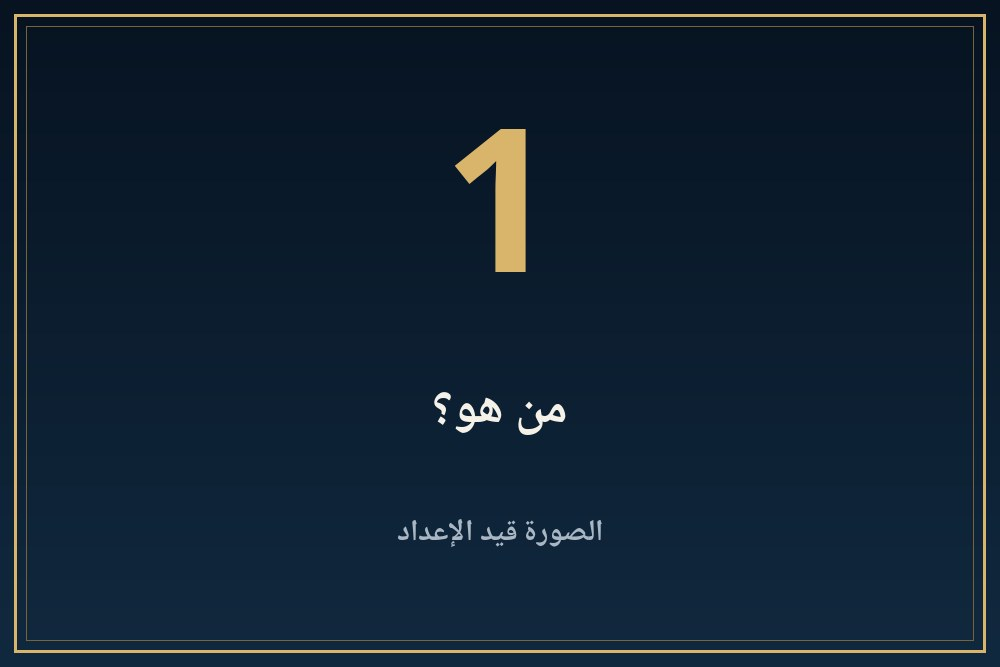
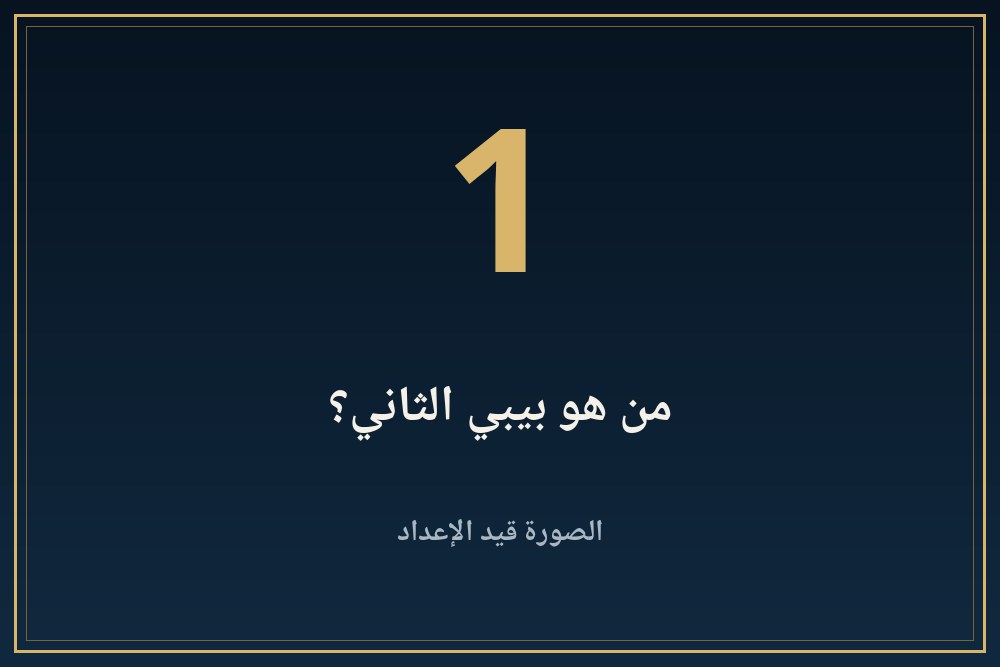
King 035: rebuilt from updated content (placeholders, audio pending)

Changed region(s): [[0.341, 0.5697, 0.682, 0.6597], [0.31, 0.5697, 0.341, 0.6297]]

diff --git a/kings/035-byby-althany/index.html b/kings/035-byby-althany/index.html
@@ -324,7 +324,7 @@ html[dir=ltr] #panav.open,#pash[dir=ltr] #panav.open{border-right:0!important;bo
 <div class="row"><span class="bdg v">موثّق</span><span>مذكور في مصدر مرقّم يمكن فتحه من قسم المراجع.</span></div>
 <div class="row"><span class="bdg d">محل خلاف</span><span>الصفحة نفسها تذكر أن الباحثين أو المصادر مختلفون فيه.</span></div>
 <div class="row"><span class="bdg u">لم يُتحقق منه</span><span>الصفحة تذكر أنه من مصدر واحد ولم يُتحقق منه في مصدر ثانٍ.</span></div></div>
-<div class="band" aria-hidden="true"></div><details class="acc k1" id="s1"><summary><img class="bnr" src="banners/b01.jpg?v=1" alt="" width="1000" height="667"><span class="n">1</span><span class="t">من هو؟</span><span class="ch"></span></summary><div class="body"><button class="lbtn" type="button" disabled aria-disabled="true" style="opacity:.55;cursor:default"><svg viewBox="0 0 24 24" fill="currentColor" aria-hidden="true"><path d="M7 4.5v15a1 1 0 001.5.86l12-7.5a1 1 0 000-1.72l-12-7.5A1 1 0 007 4.5z"/></svg><span>التعليق الصوتي قريبًا</span></button><p><span class="bdg v">موثّق</span> يقول سليم حسن (ج1 ص287) إنه خلف أخاه مرن رع وهو في السادسة، وإن مانيتون يقول إنه حكم حتى بلغ المئة، أي نحو 94 عاما، وإن أراتوستينس يقول «مئة عام إلا ساعة واحدة».<sup><a href="#r1">[1]</a></sup></p></div></details><details class="acc k2" id="s2"><summary><img class="bnr" src="banners/b02.jpg?v=1" alt="" loading="lazy" width="1000" height="667"><span class="n">2</span><span class="t">مدة الحكم: من قال ماذا؟</span><span class="ch"></span></summary><div class="body"><button class="lbtn" type="button" disabled aria-disabled="true" style="opacity:.55;cursor:default"><svg viewBox="0 0 24 24" fill="currentColor" aria-hidden="true"><path d="M7 4.5v15a1 1 0 001.5.86l12-7.5a1 1 0 000-1.72l-12-7.5A1 1 0 007 4.5z"/></svg><span>التعليق الصوتي قريبًا</span></button><p><span class="bdg d">محل خلاف</span> مانيتون كما ينقله سليم حسن (ص287): نحو 94 عاما. وأراتوستينس: مئة عام إلا ساعة. ولم نقرأ بعد الرقم عند مصدر مصري حديث. فلا نحسم.<sup><a href="#r1">[1]</a></sup></p></div></details><details class="acc k3" id="s3"><summary><img class="bnr" src="banners/b03.jpg?v=1" alt="" loading="lazy" width="1000" height="667"><span class="n">3</span><span class="t">البلاط في صغره</span><span class="ch"></span></summary><div class="body"><button class="lbtn" type="button" disabled aria-disabled="true" style="opacity:.55;cursor:default"><svg viewBox="0 0 24 24" fill="currentColor" aria-hidden="true"><path d="M7 4.5v15a1 1 0 001.5.86l12-7.5a1 1 0 000-1.72l-12-7.5A1 1 0 007 4.5z"/></svg><span>التعليق الصوتي قريبًا</span></button><p><span class="bdg v">موثّق</span> يقول سليم حسن (ص287) إنه لم يحدث اضطراب في البلاط بفضل خاله ووزيره زاو وأمه.<sup><a href="#r1">[1]</a></sup></p></div></details><details class="acc k4" id="s4"><summary><img class="bnr" src="banners/b04.jpg?v=1" alt="" loading="lazy" width="1000" height="667"><span class="n">4</span><span class="t">خطاب القزم</span><span class="ch"></span></summary><div class="body"><button class="lbtn" type="button" disabled aria-disabled="true" style="opacity:.55;cursor:default"><svg viewBox="0 0 24 24" fill="currentColor" aria-hidden="true"><path d="M7 4.5v15a1 1 0 001.5.86l12-7.5a1 1 0 000-1.72l-12-7.5A1 1 0 007 4.5z"/></svg><span>التعليق الصوتي قريبًا</span></button><p><span class="bdg v">موثّق</span> يترجم سليم حسن (ص288-289) خطاب الملك إلى حرخوف: «فتش عليه عشر مرات كل ليلة؛ لأن جلالتي يريد أن يرى هذا القزم أكثر من كل محصولات بلاد بنت وكنوزها»، ويقول إنه «أقدم وثيقة في التاريخ عن كشف مجاهل أفريقيا» (ص288). وهذا حكمه هو.<sup><a href="#r1">[1]</a></sup></p></div></details><details class="acc k1" id="s5"><summary><img class="bnr" src="banners/b05.jpg?v=1" alt="" loading="lazy" width="1000" height="667"><span class="n">5</span><span class="t">بيبي نخت</span><span class="ch"></span></summary><div class="body"><button class="lbtn" type="button" disabled aria-disabled="true" style="opacity:.55;cursor:default"><svg viewBox="0 0 24 24" fill="currentColor" aria-hidden="true"><path d="M7 4.5v15a1 1 0 001.5.86l12-7.5a1 1 0 000-1.72l-12-7.5A1 1 0 007 4.5z"/></svg><span>التعليق الصوتي قريبًا</span></button><p><span class="bdg v">موثّق</span> يذكر سليم حسن (ص290) بيبي نخت ورحلاته إلى إرثت وبنت، ومن عباراته «أعطيت خبزا للجائع».<sup><a href="#r1">[1]</a></sup></p></div></details><details class="acc k2" id="s6"><summary><img class="bnr" src="banners/b06.jpg?v=1" alt="" loading="lazy" width="1000" height="667"><span class="n">6</span><span class="t">مقتل عنختي</span><span class="ch"></span></summary><div class="body"><button class="lbtn" type="button" disabled aria-disabled="true" style="opacity:.55;cursor:default"><svg viewBox="0 0 24 24" fill="currentColor" aria-hidden="true"><path d="M7 4.5v15a1 1 0 001.5.86l12-7.5a1 1 0 000-1.72l-12-7.5A1 1 0 007 4.5z"/></svg><span>التعليق الصوتي قريبًا</span></button><p><span class="bdg v">موثّق</span> يذكر سليم حسن (ص291) أن عنختي، مدير قافلة بنت، قُتل على يد الآسيويين وهو يبني سفينة.<sup><a href="#r1">[1]</a></sup></p></div></details><details class="acc k3" id="s7"><summary><img class="bnr" src="banners/b07.jpg?v=1" alt="" loading="lazy" width="1000" height="667"><span class="n">7</span><span class="t">سبني وأبوه مخو</span><span class="ch"></span></summary><div class="body"><button class="lbtn" type="button" disabled aria-disabled="true" style="opacity:.55;cursor:default"><svg viewBox="0 0 24 24" fill="currentColor" aria-hidden="true"><path d="M7 4.5v15a1 1 0 001.5.86l12-7.5a1 1 0 000-1.72l-12-7.5A1 1 0 007 4.5z"/></svg><span>التعليق الصوتي قريبًا</span></button><p><span class="bdg v">موثّق</span> يذكر سليم حسن (ص292) أن سبني استعاد جثة أبيه مخو، ومرسوم التحنيط الملكي.<sup><a href="#r1">[1]</a></sup></p></div></details><details class="acc k4" id="s8"><summary><img class="bnr" src="banners/b08.jpg?v=1" alt="" loading="lazy" width="1000" height="667"><span class="n">8</span><span class="t">الوزير زاو وقبر أبي</span><span class="ch"></span></summary><div class="body"><button class="lbtn" type="button" disabled aria-disabled="true" style="opacity:.55;cursor:default"><svg viewBox="0 0 24 24" fill="currentColor" aria-hidden="true"><path d="M7 4.5v15a1 1 0 001.5.86l12-7.5a1 1 0 000-1.72l-12-7.5A1 1 0 007 4.5z"/></svg><span>التعليق الصوتي قريبًا</span></button><p><span class="bdg v">موثّق</span> يذكر سليم حسن (ص293-294) أسرة الوزير زاو وقبر أبي الذي أوصى بأن يُدفن مع أبيه حبا لا عجزا.<sup><a href="#r1">[1]</a></sup></p></div></details><details class="acc k1" id="s9"><summary><img class="bnr" src="banners/b09.jpg?v=1" alt="" loading="lazy" width="1000" height="667"><span class="n">9</span><span class="t">نهاية الدولة القديمة: من قال ماذا؟</span><span class="ch"></span></summary><div class="body"><button class="lbtn" type="button" disabled aria-disabled="true" style="opacity:.55;cursor:default"><svg viewBox="0 0 24 24" fill="currentColor" aria-hidden="true"><path d="M7 4.5v15a1 1 0 001.5.86l12-7.5a1 1 0 000-1.72l-12-7.5A1 1 0 007 4.5z"/></svg><span>التعليق الصوتي قريبًا</span></button><p><span class="bdg d">محل خلاف</span> يقول سليم حسن (ص295 و297-301) إن السلطة تدهورت في عهد بيبي الثاني، وإن البدو أغاروا وقامت حروب داخلية، وإن الثورة الاجتماعية «امتد أمدها أكثر من قرنين». ويعتمد على كتاب «تحذيرات نبي» (إب ور) مصدرا أدبيا يترجم منه مقاطع (ص298-301)، منها «صارت الأرض تدور كعجلة صانع الفخار». ولم نقرأ بعد رأيا مخالفا في التفسير، ولا نقدم النص الأدبي على أنه وثيقة تاريخية.<sup><a href="#r1">[1]</a></sup></p></div></details><details class="acc k2" id="s10"><summary><img class="bnr" src="banners/b10.jpg?v=1" alt="" loading="lazy" width="1000" height="667"><span class="n">10</span><span class="t">ما لا نعرفه</span><span class="ch"></span></summary><div class="body"><button class="lbtn" type="button" disabled aria-disabled="true" style="opacity:.55;cursor:default"><svg viewBox="0 0 24 24" fill="currentColor" aria-hidden="true"><path d="M7 4.5v15a1 1 0 001.5.86l12-7.5a1 1 0 000-1.72l-12-7.5A1 1 0 007 4.5z"/></svg><span>التعليق الصوتي قريبًا</span></button><p><span class="bdg u">لم يُتحقق منه</span> لم نقرأ بعد مصدرا ثانيا عن بيبي الثاني. هذه الصفحة مؤقتة لحين وصول اقتباسات حواس وصالح ونور الدين وكتاب الميت.</p></div></details><details class="acc k4" id="refs"><summary><img class="bnr" src="banners/b11.jpg?v=1" alt="" loading="lazy" width="1000" height="667"><span class="n">11</span><span class="t">المراجع</span><span class="ch"></span></summary><div class="body"><button class="lbtn" type="button" disabled aria-disabled="true" style="opacity:.55;cursor:default"><svg viewBox="0 0 24 24" fill="currentColor" aria-hidden="true"><path d="M7 4.5v15a1 1 0 001.5.86l12-7.5a1 1 0 000-1.72l-12-7.5A1 1 0 007 4.5z"/></svg><span>التعليق الصوتي قريبًا</span></button><p><b>مصادر فتحتُ صفحاتها وقرأتها:</b></p><ol><li id="r1" dir="auto">سليم حسن، موسوعة مصر القديمة، ج1، الفصل 15: <a dir="ltr" style="display:inline-block;overflow-wrap:anywhere" href="https://archive.org/details/20201104_20201104_1559" rel="noopener" target="_blank">archive.org/details/20201104_20201104_1559</a></li></ol><div class="flag"><b>تنبيه:</b> عدد المصادر المصرية المفتوحة لهذه الصفحة واحد فقط. لا نضيف تفاصيل لم تثبت في مصدر فتحناه وقرأنا نصه، وحيث يختلف المصدران ننسب كل رأي لصاحبه.</div></div></details></article><aside class="abt" aria-label="عن هذه الصفحة"><h3>عن هذه الصفحة</h3><ul><li><b>المحتوى</b><span>جزء من موسوعة بر عنخ التعليمية. التواريخ والتفسيرات وفق المراجع المتاحة، وقد تختلف التفاصيل بين الدراسات.</span></li><li><b>الصور</b><span>صور هذه الصفحة أماكن حجز مؤقتة إلى أن تُضاف الصور الفنية.</span></li><li><b>الصوت</b><span>التعليق الصوتي قيد الإعداد.</span></li></ul></aside><a class="back" href="/kings/">← تصفح المزيد</a><a class="back" href="/">العودة إلى الرئيسية</a><dialog id="lb"><img alt=""><p></p><button type="button">إغلاق</button></dialog>
+<div class="band" aria-hidden="true"></div><details class="acc k1" id="s1"><summary><img class="bnr" src="banners/b01.jpg?v=1" alt="" width="1000" height="667"><span class="n">1</span><span class="t">من هو بيبي الثاني؟</span><span class="ch"></span></summary><div class="body"><button class="lbtn" type="button" disabled aria-disabled="true" style="opacity:.55;cursor:default"><svg viewBox="0 0 24 24" fill="currentColor" aria-hidden="true"><path d="M7 4.5v15a1 1 0 001.5.86l12-7.5a1 1 0 000-1.72l-12-7.5A1 1 0 007 4.5z"/></svg><span>التعليق الصوتي قريبًا</span></button><p><span class="bdg v">موثّق</span> يقول كتاب الميت (ص36) إن اسمه الحوري «نثر خعو» واسمه «نفر كا رع»، وإنه كان صغيرا جدا عند وفاة أخيه غير الشقيق مرن رع، «ستة فقط بحسب مانيتون». ويقول صالح (ص226) إنه ورث العرش طفلا وربما ساعده أمه وخاله. ويقول سليم حسن (ص287) إنه لم يحدث اضطراب في البلاط بفضل خاله الوزير زاو وأمه.<sup><a href="#r1">[1]</a><a href="#r2">[2]</a><a href="#r4">[4]</a></sup></p></div></details><details class="acc k2" id="s2"><summary><img class="bnr" src="banners/b02.jpg?v=1" alt="" loading="lazy" width="1000" height="667"><span class="n">2</span><span class="t">كم حكم؟</span><span class="ch"></span></summary><div class="body"><button class="lbtn" type="button" disabled aria-disabled="true" style="opacity:.55;cursor:default"><svg viewBox="0 0 24 24" fill="currentColor" aria-hidden="true"><path d="M7 4.5v15a1 1 0 001.5.86l12-7.5a1 1 0 000-1.72l-12-7.5A1 1 0 007 4.5z"/></svg><span>التعليق الصوتي قريبًا</span></button><p><span class="bdg d">محل خلاف</span> يقول كتاب الميت (ص36) إنه حكم، بحسب مانيتون، حتى سنته المئة، «وهو أطول حكم في التاريخ»، لكن قراءات جديدة لنصوص مجزأة تحدّه بسبعين سنة، وتاريخ واحد مؤكد هو «سنة 33 للإحصاء»، ربما السنة 66. ويقول صالح (ص226) إنه ربما حكم أكثر من تسعين عاما. ويقول سليم حسن (ص287) إن مانيتون ينسب إليه نحو 94 عاما وأراتوستينس «مئة عام إلا ساعة». وفي نسختنا من حواس (ص14) الرقم مشوه. فلا نحسم.<sup><a href="#r1">[1]</a><a href="#r2">[2]</a><a href="#r3">[3]</a><a href="#r4">[4]</a></sup></p></div></details><details class="acc k3" id="s3"><summary><img class="bnr" src="banners/b03.jpg?v=1" alt="" loading="lazy" width="1000" height="667"><span class="n">3</span><span class="t">رحلات حرخوف</span><span class="ch"></span></summary><div class="body"><button class="lbtn" type="button" disabled aria-disabled="true" style="opacity:.55;cursor:default"><svg viewBox="0 0 24 24" fill="currentColor" aria-hidden="true"><path d="M7 4.5v15a1 1 0 001.5.86l12-7.5a1 1 0 000-1.72l-12-7.5A1 1 0 007 4.5z"/></svg><span>التعليق الصوتي قريبًا</span></button><p><span class="bdg v">موثّق</span> يقول صالح (ص220) إن حرخوف قام بأربع رحلات، بطريقين: واحد مواز للنهر، وآخر عبر الصحراء الغربية إلى الواحات. ويقول كتاب الميت (ص36) إن رحلته الثالثة عادت بثلاثمئة حمار محملة بالبخور والأبنوس والزيت وجلود النمور وأنياب الفيلة، وقزم لتسلية الملك.<sup><a href="#r2">[2]</a><a href="#r4">[4]</a></sup></p></div></details><details class="acc k4" id="s4"><summary><img class="bnr" src="banners/b04.jpg?v=1" alt="" loading="lazy" width="1000" height="667"><span class="n">4</span><span class="t">رسالة القزم</span><span class="ch"></span></summary><div class="body"><button class="lbtn" type="button" disabled aria-disabled="true" style="opacity:.55;cursor:default"><svg viewBox="0 0 24 24" fill="currentColor" aria-hidden="true"><path d="M7 4.5v15a1 1 0 001.5.86l12-7.5a1 1 0 000-1.72l-12-7.5A1 1 0 007 4.5z"/></svg><span>التعليق الصوتي قريبًا</span></button><p><span class="bdg v">موثّق</span> يقول صالح (ص221-222) إن الملك الطفل اهتم بالقزم أكثر من نتائج الرحلة، فكتب برسالة ساذجة توصي حرخوف بالعجلة وبالحراسة على جانبي المركب خشية سقوطه في الماء وبتفقده عشر مرات كل ليلة، وأنه يهتم به أكثر من منتجات أرض المناجم وبلاد بونت، ووعد بمكافأة. ويقول سليم حسن (ص288) إنها «أقدم وثيقة في التاريخ عن كشف مجاهل أفريقيا». وهذا حكمه.<sup><a href="#r1">[1]</a><a href="#r2">[2]</a></sup></p></div></details><details class="acc k1" id="s5"><summary><img class="bnr" src="banners/b05.jpg?v=1" alt="" loading="lazy" width="1000" height="667"><span class="n">5</span><span class="t">بعثات لم تنجح</span><span class="ch"></span></summary><div class="body"><button class="lbtn" type="button" disabled aria-disabled="true" style="opacity:.55;cursor:default"><svg viewBox="0 0 24 24" fill="currentColor" aria-hidden="true"><path d="M7 4.5v15a1 1 0 001.5.86l12-7.5a1 1 0 000-1.72l-12-7.5A1 1 0 007 4.5z"/></svg><span>التعليق الصوتي قريبًا</span></button><p><span class="bdg v">موثّق</span> يقول كتاب الميت (ص36) إن الأمير محو قُتل في بعثة، وحمل ابنه سبني رفاته في حملة أخرى. ويقول إن النقوش تتحدث كثيرا عن ضرورة «تهدئة» المناطق التي تُعبر، لكن معنى الفعل غير مؤكد. ويذكر سليم حسن (ص290-292) بيبي نخت، ومقتل عنختي وهو يبني سفينة، واستعادة سبني جثة أبيه محو.<sup><a href="#r1">[1]</a><a href="#r4">[4]</a></sup></p></div></details><details class="acc k2" id="s6"><summary><img class="bnr" src="banners/b06.jpg?v=1" alt="" loading="lazy" width="1000" height="667"><span class="n">6</span><span class="t">وزيران</span><span class="ch"></span></summary><div class="body"><button class="lbtn" type="button" disabled aria-disabled="true" style="opacity:.55;cursor:default"><svg viewBox="0 0 24 24" fill="currentColor" aria-hidden="true"><path d="M7 4.5v15a1 1 0 001.5.86l12-7.5a1 1 0 000-1.72l-12-7.5A1 1 0 007 4.5z"/></svg><span>التعليق الصوتي قريبًا</span></button><p><span class="bdg d">محل خلاف</span> يقول صالح (ص226) إن شتوك يعتقد أنه أصبح لمصر في عهده وزيران، واحد للصعيد وآخر للوجه البحري، وإن هذا فتح باب اللامركزية فيما بعد.<sup><a href="#r2">[2]</a></sup></p></div></details><details class="acc k3" id="s7"><summary><img class="bnr" src="banners/b07.jpg?v=1" alt="" loading="lazy" width="1000" height="667"><span class="n">7</span><span class="t">أهرام الملكات</span><span class="ch"></span></summary><div class="body"><button class="lbtn" type="button" disabled aria-disabled="true" style="opacity:.55;cursor:default"><svg viewBox="0 0 24 24" fill="currentColor" aria-hidden="true"><path d="M7 4.5v15a1 1 0 001.5.86l12-7.5a1 1 0 000-1.72l-12-7.5A1 1 0 007 4.5z"/></svg><span>التعليق الصوتي قريبًا</span></button><p><span class="bdg v">موثّق</span> يقول كتاب الميت (ص36) إن بقايا أهرام ثلاث من ملكاته، نيت وإيبوت الثانية وجدبتن، وُجدت قرب هرمه ومزينة بمتون الأهرام.<sup><a href="#r4">[4]</a></sup></p></div></details><details class="acc k4" id="s8"><summary><img class="bnr" src="banners/b08.jpg?v=1" alt="" loading="lazy" width="1000" height="667"><span class="n">8</span><span class="t">نهاية الدولة القديمة: من قال ماذا؟</span><span class="ch"></span></summary><div class="body"><button class="lbtn" type="button" disabled aria-disabled="true" style="opacity:.55;cursor:default"><svg viewBox="0 0 24 24" fill="currentColor" aria-hidden="true"><path d="M7 4.5v15a1 1 0 001.5.86l12-7.5a1 1 0 000-1.72l-12-7.5A1 1 0 007 4.5z"/></svg><span>التعليق الصوتي قريبًا</span></button><p><span class="bdg d">محل خلاف</span> يقول صالح (ص227) إن العيوب تضخمت منذ أواخر عهد بيبي الثاني حين طال حكمه وشاخ، وإن حكام الأقاليم تمسكوا بتوريث مناصبهم، ومنع بعض حكام الصعيد نصيب الدولة من الموارد، وعاث الجنود المرتزقة فسادا. ويقول كتاب الميت (ص36) إن الأسباب غير معروفة تماما، ويذكر ملوكا قصار العهد بعده: مرن رع الثاني وملكة. ويقول سليم حسن (ص297-301) إن الثورة الاجتماعية امتد أمدها أكثر من قرنين، اعتمادا على «تحذيرات نبي» (إب ور). ويقول صالح (ص228-229) إن إبوور وصف ثورة عارمة بدأت بالعاصمة.<sup><a href="#r1">[1]</a><a href="#r2">[2]</a><a href="#r4">[4]</a></sup></p></div></details><details class="acc k1" id="s9"><summary><img class="bnr" src="banners/b09.jpg?v=1" alt="" loading="lazy" width="1000" height="667"><span class="n">9</span><span class="t">ما قاله إبوور للملك</span><span class="ch"></span></summary><div class="body"><button class="lbtn" type="button" disabled aria-disabled="true" style="opacity:.55;cursor:default"><svg viewBox="0 0 24 24" fill="currentColor" aria-hidden="true"><path d="M7 4.5v15a1 1 0 001.5.86l12-7.5a1 1 0 000-1.72l-12-7.5A1 1 0 007 4.5z"/></svg><span>التعليق الصوتي قريبًا</span></button><p><span class="bdg d">محل خلاف</span> يقول صالح (ص229) إن إبوور خاطب ملكه: «كان من الممكن أن يرتاح قلب الملك لو بلغته الحقيقة...»، وقال إنها «جرأة لا شبيه لها في تاريخ الشعوب القديمة الأخرى». وهذا نص أدبي لا يثبت وقائع بعينها.<sup><a href="#r2">[2]</a></sup></p></div></details><details class="acc k2" id="s10"><summary><img class="bnr" src="banners/b10.jpg?v=1" alt="" loading="lazy" width="1000" height="667"><span class="n">10</span><span class="t">ما لا نعرفه</span><span class="ch"></span></summary><div class="body"><button class="lbtn" type="button" disabled aria-disabled="true" style="opacity:.55;cursor:default"><svg viewBox="0 0 24 24" fill="currentColor" aria-hidden="true"><path d="M7 4.5v15a1 1 0 001.5.86l12-7.5a1 1 0 000-1.72l-12-7.5A1 1 0 007 4.5z"/></svg><span>التعليق الصوتي قريبًا</span></button><p><span class="bdg u">لم يُتحقق منه</span> لا نعرف عدد سنوات حكمه، ولا هل دام ما قاله مانيتون، ولا سبب تفكك الدولة بيقين. ولم نذكر رقم حواس لأنه مشوه في نسختنا.</p></div></details><details class="acc k4" id="refs"><summary><img class="bnr" src="banners/b11.jpg?v=1" alt="" loading="lazy" width="1000" height="667"><span class="n">11</span><span class="t">المراجع</span><span class="ch"></span></summary><div class="body"><button class="lbtn" type="button" disabled aria-disabled="true" style="opacity:.55;cursor:default"><svg viewBox="0 0 24 24" fill="currentColor" aria-hidden="true"><path d="M7 4.5v15a1 1 0 001.5.86l12-7.5a1 1 0 000-1.72l-12-7.5A1 1 0 007 4.5z"/></svg><span>التعليق الصوتي قريبًا</span></button><p><b>مصادر فتحتُ صفحاتها وقرأتها:</b></p><ol><li id="r1" dir="auto">سليم حسن، موسوعة مصر القديمة، ج1، الفصل 15: <a dir="ltr" style="display:inline-block;overflow-wrap:anywhere" href="https://archive.org/details/20201104_20201104_1559" rel="noopener" target="_blank">archive.org/details/20201104_20201104_1559</a></li><li id="r2" dir="auto">عبد العزيز صالح، الشرق الأدنى القديم ج1 (مصر والعراق)، أرقام صفحات PDF: <a dir="ltr" style="display:inline-block;overflow-wrap:anywhere" href="https://archive.org/details/20210510_20210510_0037" rel="noopener" target="_blank">archive.org/details/20210510_20210510_0037</a></li><li id="r3" dir="auto">زاهي حواس، 100 حقيقة مثيرة في حياة الفراعنة، أرقام الصفحات المطبوعة: <a dir="ltr" style="display:inline-block;overflow-wrap:anywhere" href="https://archive.org/details/1-100_202311" rel="noopener" target="_blank">archive.org/details/1-100_202311</a></li><li id="r4" dir="auto">The Metropolitan Museum of Art, Egyptian Art in the Age of the Pyramids, 1999 (فصول كوزلوف وأرنولد وزيجلر وجريمال): <a dir="ltr" style="display:inline-block;overflow-wrap:anywhere" href="https://www.metmuseum.org/met-publications/egyptian-art-in-the-age-of-the-pyramids" rel="noopener" target="_blank">www.metmuseum.org/met-publications/egyptian-art-in-the-age-of-the-pyramids</a></li></ol></div></details></article><aside class="abt" aria-label="عن هذه الصفحة"><h3>عن هذه الصفحة</h3><ul><li><b>المحتوى</b><span>جزء من موسوعة بر عنخ التعليمية. التواريخ والتفسيرات وفق المراجع المتاحة، وقد تختلف التفاصيل بين الدراسات.</span></li><li><b>الصور</b><span>صور هذه الصفحة أماكن حجز مؤقتة إلى أن تُضاف الصور الفنية.</span></li><li><b>الصوت</b><span>التعليق الصوتي قيد الإعداد.</span></li></ul></aside><a class="back" href="/kings/">← تصفح المزيد</a><a class="back" href="/">العودة إلى الرئيسية</a><dialog id="lb"><img alt=""><p></p><button type="button">إغلاق</button></dialog>
 <script>(function(){var A=function(){return document.querySelectorAll("details.acc")};
 document.getElementById("all").onclick=function(){A().forEach(function(d){d.open=true})};
 document.getElementById("none").onclick=function(){A().forEach(function(d){d.open=false})};
@@ -332,7 +332,7 @@ function go(h){var e=h&&document.getElementById(h.slice(1));if(!e)return;var d=e
 document.addEventListener("click",function(e){var a=e.target.closest&&e.target.closest('a[href^="#"]');if(a){go(a.getAttribute("href"))}});
 if(location.hash)go(location.hash);
 var d=document.getElementById("lb");if(!d||!d.showModal)return;var im=d.querySelector("img"),p=d.querySelector("p");document.addEventListener("click",function(e){var t=e.target;if(t.tagName=="IMG"&&t.closest(".fig")){im.src=t.src;im.alt=t.alt;p.textContent=t.closest("figure").querySelector("figcaption").innerText;d.showModal()}else if(t==d||t.tagName=="BUTTON"&&d.contains(t)){d.close()}})})();</script><div class="pbar" id="pbar"></div><div class="pl" id="pl" role="region" aria-label="مشغّل الاستماع"><div class="in"><button class="pp" id="pp" type="button" aria-label="تشغيل"><svg viewBox="0 0 24 24" fill="currentColor" aria-hidden="true"><path d="M7 4.5v15a1 1 0 001.5.86l12-7.5a1 1 0 000-1.72l-12-7.5A1 1 0 007 4.5z"/></svg></button><div class="mid"><div class="ttl"><span id="tt">استماع</span> <i>صوت اصطناعي</i></div><input id="sk" type="range" min="0" max="1000" value="0" aria-label="موضع التشغيل"><div class="tm"><span id="cur">0:00</span><span id="dur">0:00</span></div></div><div class="ex"><button id="bk" type="button" aria-label="رجوع 10 ثوانٍ">−10</button><button id="fw" type="button" aria-label="تقدم 10 ثوانٍ">+10</button><button id="sp" class="sp" type="button" aria-label="سرعة التشغيل">1×</button><button id="cl" type="button" aria-label="إغلاق المشغّل">✕</button></div><p class="err" id="er" role="alert" hidden>تعذر تحميل الملف الصوتي. حاول لاحقًا.</p></div><div aria-live="polite" id="st" style="position:absolute;left:-9999px"></div><audio id="au" preload="none"></audio></div></main><script>(function(){
-var S={"s1": ["من هو؟", 1], "s2": ["مدة الحكم: من قال ماذا؟", 1], "s3": ["البلاط في صغره", 1], "s4": ["خطاب القزم", 1], "s5": ["بيبي نخت", 1], "s6": ["مقتل عنختي", 1], "s7": ["سبني وأبوه مخو", 1], "s8": ["الوزير زاو وقبر أبي", 1], "s9": ["نهاية الدولة القديمة: من قال ماذا؟", 1], "s10": ["ما لا نعرفه", 1], "refs": ["المراجع", 1]},$=function(i){return document.getElementById(i)},au=$("au"),pl=$("pl"),pp=$("pp"),sk=$("sk"),P="<svg viewBox=\"0 0 24 24\" fill=\"currentColor\" aria-hidden=\"true\"><path d=\"M7 4.5v15a1 1 0 001.5.86l12-7.5a1 1 0 000-1.72l-12-7.5A1 1 0 007 4.5z\"/></svg>",Q="<svg viewBox=\"0 0 24 24\" fill=\"currentColor\" aria-hidden=\"true\"><rect x=\"5.5\" y=\"4\" width=\"4.5\" height=\"16\" rx=\"1.2\"/><rect x=\"14\" y=\"4\" width=\"4.5\" height=\"16\" rx=\"1.2\"/></svg>",cur=null,part=1,seeking=false;
+var S={"s1": ["من هو بيبي الثاني؟", 1], "s2": ["كم حكم؟", 1], "s3": ["رحلات حرخوف", 1], "s4": ["رسالة القزم", 1], "s5": ["بعثات لم تنجح", 1], "s6": ["وزيران", 1], "s7": ["أهرام الملكات", 1], "s8": ["نهاية الدولة القديمة: من قال ماذا؟", 1], "s9": ["ما قاله إبوور للملك", 1], "s10": ["ما لا نعرفه", 1], "refs": ["المراجع", 1]},$=function(i){return document.getElementById(i)},au=$("au"),pl=$("pl"),pp=$("pp"),sk=$("sk"),P="<svg viewBox=\"0 0 24 24\" fill=\"currentColor\" aria-hidden=\"true\"><path d=\"M7 4.5v15a1 1 0 001.5.86l12-7.5a1 1 0 000-1.72l-12-7.5A1 1 0 007 4.5z\"/></svg>",Q="<svg viewBox=\"0 0 24 24\" fill=\"currentColor\" aria-hidden=\"true\"><rect x=\"5.5\" y=\"4\" width=\"4.5\" height=\"16\" rx=\"1.2\"/><rect x=\"14\" y=\"4\" width=\"4.5\" height=\"16\" rx=\"1.2\"/></svg>",cur=null,part=1,seeking=false;
 function fmt(t){if(!isFinite(t))return"0:00";var m=Math.floor(t/60),s=Math.floor(t%60);return m+":"+(s<10?"0":"")+s}
 function btns(){document.querySelectorAll(".lbtn").forEach(function(b){var on=b.dataset.s===cur&&!au.paused;b.classList.toggle("on",on);b.querySelector("span").textContent=on?"إيقاف مؤقت":(b.dataset.s===cur&&au.currentTime>1?"أكمل الاستماع":"استمع لهذا القسم");b.querySelector("svg").outerHTML=on?Q:P})}
 function ui(){var pa=au.paused;pp.innerHTML=pa?P:Q;pp.setAttribute("aria-label",pa?"تشغيل":"إيقاف مؤقت");btns()}
